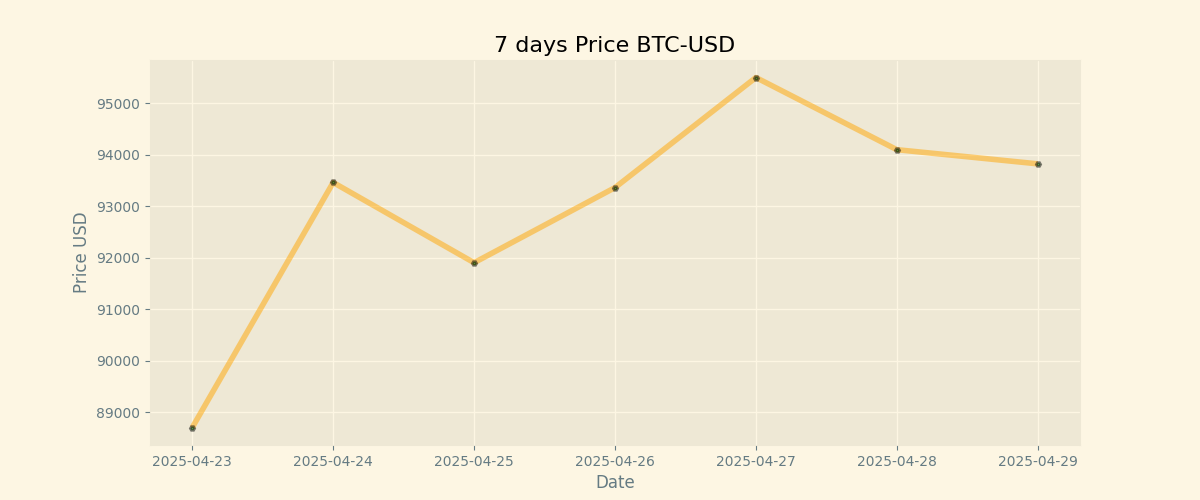
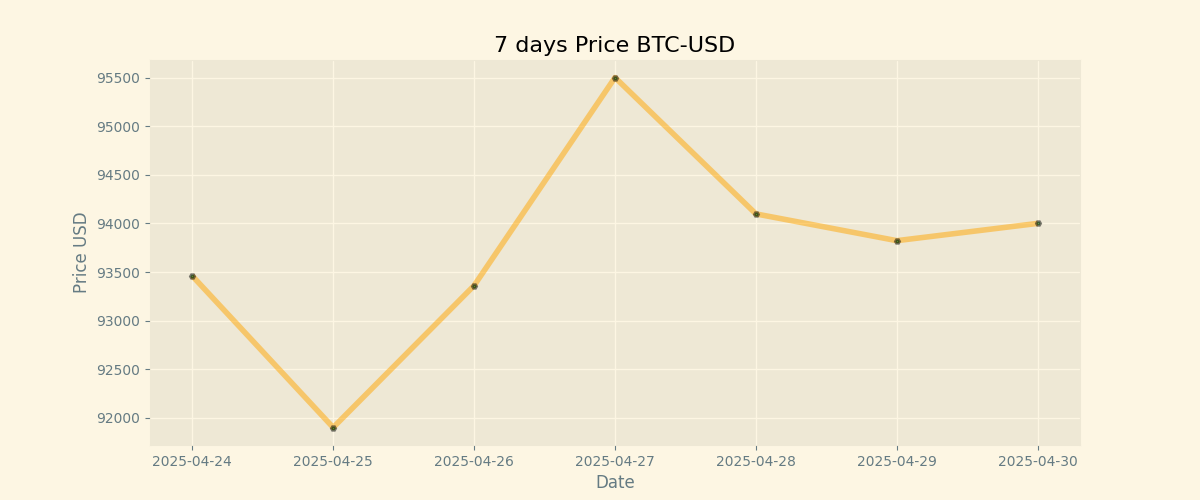
Duty Updates 2025-04-30

diff --git a/README.md b/README.md
@@ -9,7 +9,7 @@
 
 | Currency | Price           |
 | -------- | --------------- |
-| **BTC**  | **$ 93822.45** |
+| **BTC**  | **$ 94000.0** |
 | **ETH**  | **$ 1792.61** |
 
 ## BTC chart
